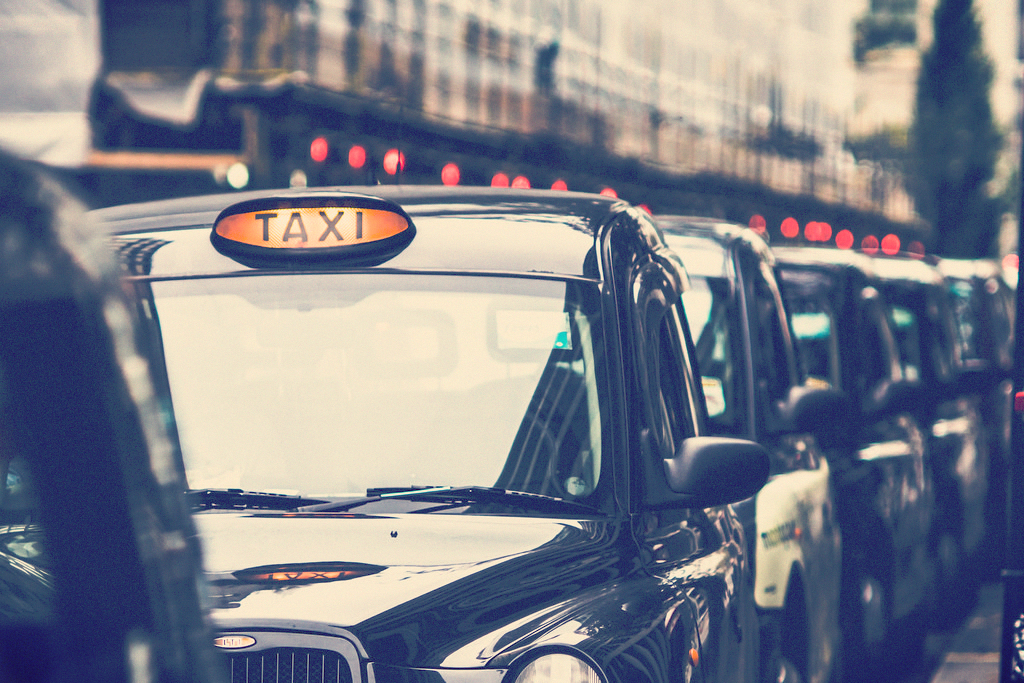
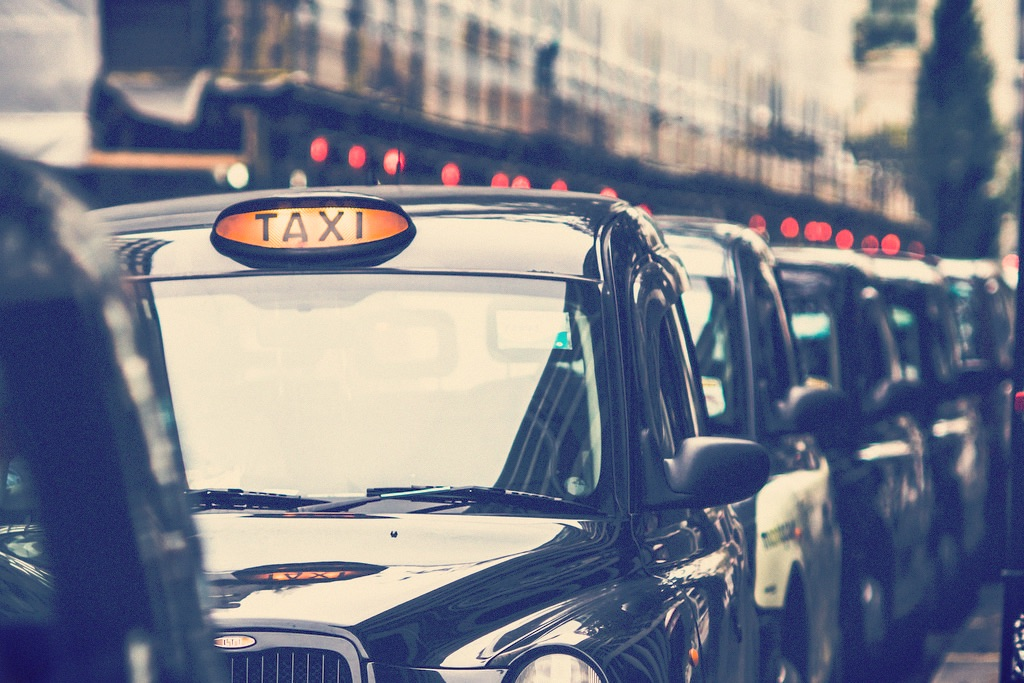
Add thank you image, optimise other images

diff --git a/client/css/main.less b/client/css/main.less
@@ -145,7 +145,7 @@ input[type="radio"] {
       color: #000;
       text-shadow: none;
       opacity: 0.5;
-      text-align: right;
+      text-align: left;
     }
   }
 }
@@ -187,6 +187,17 @@ input[type="radio"] {
 
 #gifts {
   background-image: url('../img/header-wedding-gift-list.jpg');
+}
+
+#thanks {
+  background-image: url('../img/1 (10).jpg');
+
+  h1 {
+    color: #fff;
+    text-shadow: 0 0 5px #000;
+    opacity: 0.9;
+    text-align: center;
+  }
 }
 
 .map-link {

diff --git a/client/thanks.html b/client/thanks.html
@@ -7,7 +7,10 @@
 <link rel="stylesheet" href="css/main.css">
 </head>
 <body>
-  <h1>Thanks!</h1>
-  <p>Your RSVP has been sent!</p>
+  <section id="thanks">
+    <div class="container">
+      <h1>Thanks!</h1>
+    </div>
+  </section>
 </body>
 </html>
